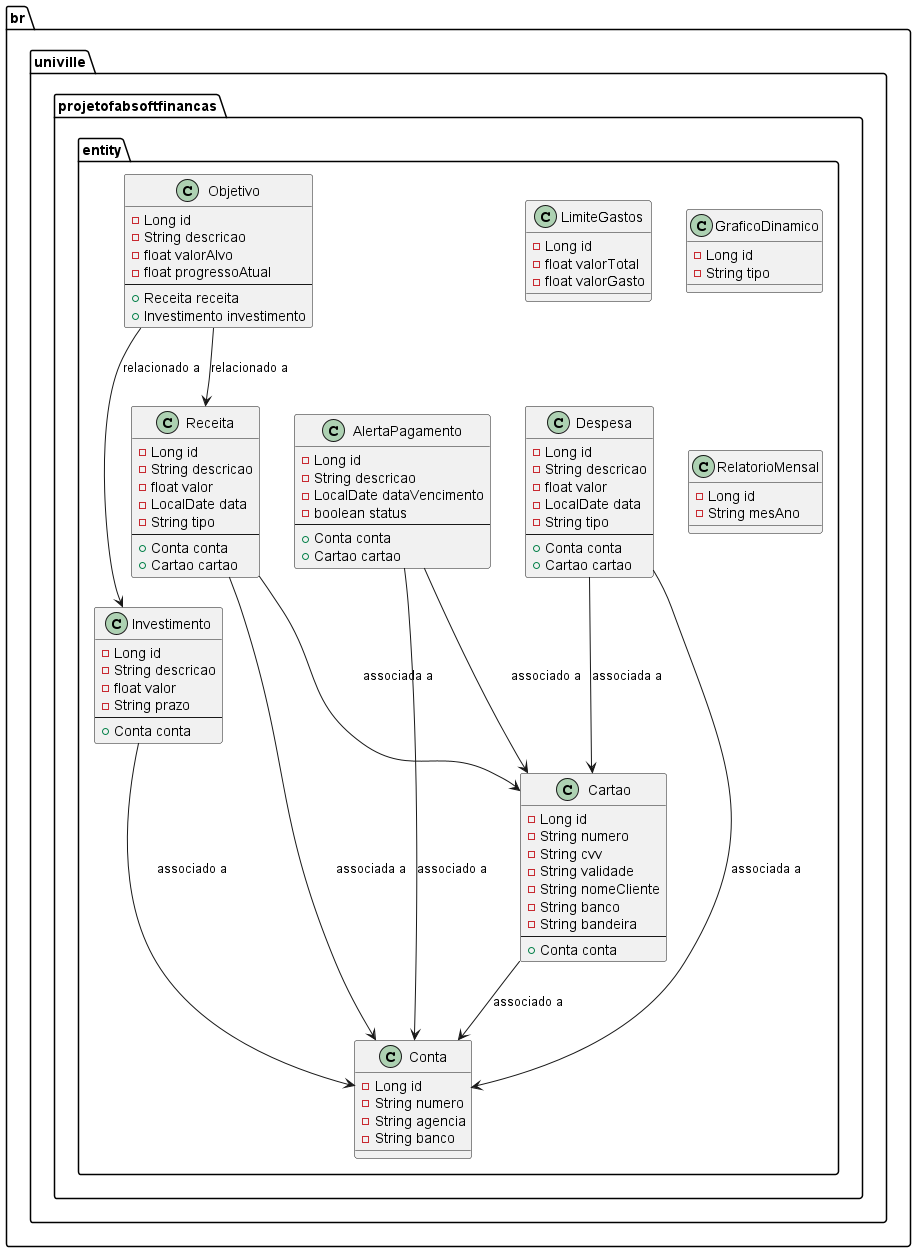
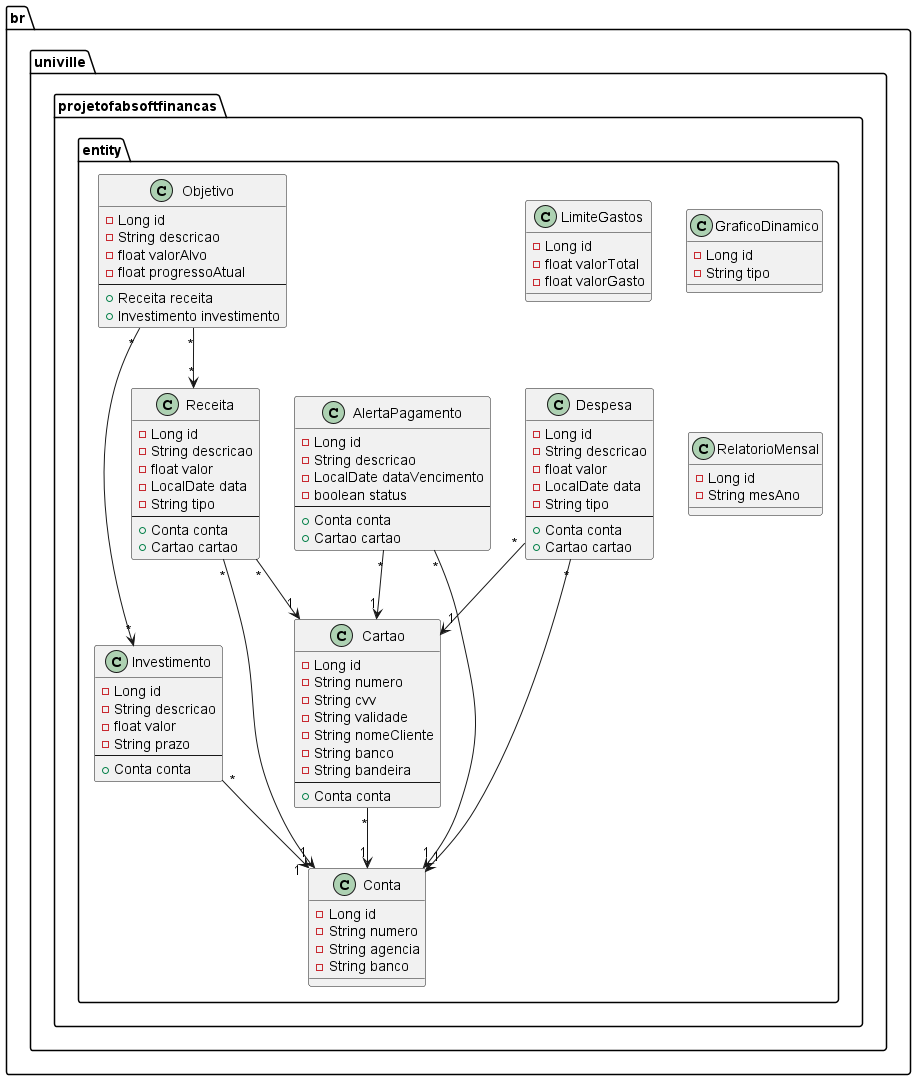
Feat: controller part1 and fix rollback

diff --git a/projetofabsoftfinancas/src/main/java/br/univille/projetofabsoftfinancas/entity/Objetivo.java b/projetofabsoftfinancas/src/main/java/br/univille/projetofabsoftfinancas/entity/Objetivo.java
@@ -12,10 +12,10 @@ public class Objetivo {
     private float valorAlvo;
     private float progressoAtual;
 
-    @ManyToOne(cascade = {CascadeType.MERGE,CascadeType.REFRESH})
+    @ManyToMany(cascade = {CascadeType.MERGE,CascadeType.REFRESH})
     private Receita receita;
 
-    @ManyToOne(cascade = {CascadeType.MERGE,CascadeType.REFRESH})
+    @ManyToMany(cascade = {CascadeType.MERGE,CascadeType.REFRESH})
     private Investimento investimento;
 
     // Getters e Setters

diff --git a/projetofabsoftfinancas/src/main/java/br/univille/projetofabsoftfinancas/controller/LimiteGastosController.java b/projetofabsoftfinancas/src/main/java/br/univille/projetofabsoftfinancas/controller/LimiteGastosController.java
@@ -1,0 +1,10 @@
+package br.univille.projetofabsoftfinancas.controller;
+
+import org.springframework.web.bind.annotation.RequestMapping;
+import org.springframework.web.bind.annotation.RestController;
+
+@RestController
+@RequestMapping("/api/v1/limitegastos")
+public class LimiteGastosController {
+
+}
